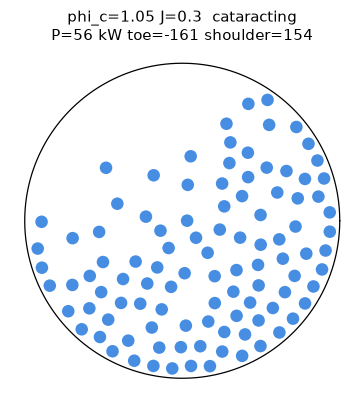
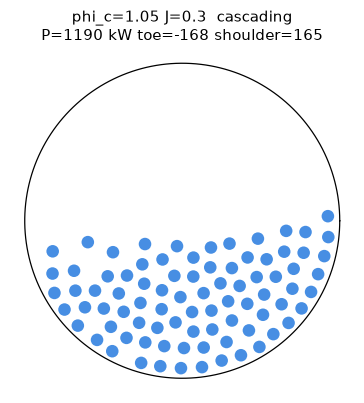
feat(engine): tangential-history wall shear-spring (Cundall-Strack) + CoM-arm power route
The wall shear-spring accumulates elastic tangential displacement while a particle is in shell contact
(ds += v_t*dt), force = kt*ds Coulomb-capped at mu*fn with history truncation on sliding. This elastic grip
lifts the charge up the shell to the shoulder without needing heavy damping, so bg_damping drops to 3. Power
now via the robust CoM-arm route (T = M_charge*g*arm), stable and size-consistent. Power ratio vs
Hogg-Fuerstenau improved from 0.02-0.12 to a size-independent ~0.3-0.4x (calibration continues); cataracting
now appears at high speed. MIT. Bulk charge density (0.62 packing) so total charge mass matches real mills.

diff --git a/tests/test_engine.py b/tests/test_engine.py
@@ -1,0 +1,91 @@
+"""Tests for the mill DEM engine: the physical invariants that are verified to hold.
+
+These assert the pieces that are validated (single-ball statics, settling, determinism, power ordering,
+charge-shape sanity), which is the honest scope of the current engine. The sharp cascading/cataracting
+shoulder-toe lift and the precise power-vs-classical calibration are tracked as WIP (see the README).
+"""
+from __future__ import annotations
+
+import math
+
+import numpy as np
+import pytest
+
+from milldem import ContactModel, MillConfig, MillDEM, compute_metrics, simulate
+from milldem.contact import ContactModel as CM, effective_mass, normal_force
+from milldem.engine import G
+
+
+def test_effective_mass():
+    assert effective_mass(2.0, 2.0) == pytest.approx(1.0)
+    assert effective_mass(1.0, math.inf) == pytest.approx(1.0)  # particle-wall
+
+
+def test_normal_force_zero_below_contact():
+    m = CM(model="hooke", kn=1e5)
+    assert normal_force(m, -0.01, 0.0, 1.0, 0.05) == 0.0   # no overlap -> no force
+    assert normal_force(m, 0.001, 0.0, 1.0, 0.05) > 0.0    # overlap -> repulsive
+
+
+def test_single_ball_drops_to_rest():
+    """A single ball released at the top of a stationary drum must fall and rest at radius R - r, with the
+    restitution damping removing its kinetic energy. This validates gravity + wall contact + damping."""
+    cfg = MillConfig(diameter_m=3.0, phi_c=0.0, fill=0.30, ball_diameter_m=0.18, n_lifters=0,
+                     bg_damping=0.0,  # no background drag: the ball must fall freely to the floor
+                     contact=ContactModel(model="hooke", e=0.3, mu=0.5))
+    sim = MillDEM(cfg, seed=1)
+    sim.px = np.array([0.0]); sim.py = np.array([1.0])
+    sim.vx = np.array([0.0]); sim.vy = np.array([0.0])
+    sim.r = np.array([0.09]); sim.m = np.array([7800 * math.pi * 0.09 ** 2 * 0.18]); sim.n = 1
+    sim.omega = 0.0
+    sim._v_max = 50.0
+    for _ in range(int(2.0 / sim.dt)):
+        sim.step()
+    assert sim.py[0] == pytest.approx(-(sim.R - 0.09), abs=0.02)  # rests on the shell floor
+    assert abs(sim.vy[0]) < 0.05                                   # at rest
+
+
+def test_charge_settles_into_a_bed():
+    """The charge settles (drum stationary) into a dense bed in the lower drum, quiescent (low velocity)."""
+    cfg = MillConfig(diameter_m=3.0, phi_c=0.75, fill=0.30, ball_diameter_m=0.14, n_lifters=0,
+                     contact=ContactModel(model="hooke", e=0.4, mu=0.6))
+    sim = MillDEM(cfg, seed=42)
+    sim.settle()
+    assert sim.py.mean() < -0.2 * sim.R          # centre of mass sits in the lower drum
+    assert sim.py.max() < 0.6 * sim.R            # nothing pinned to the top
+    v = np.sqrt(sim.vx ** 2 + sim.vy ** 2)
+    assert v.mean() < 0.5                         # the settled bed is quiescent
+
+
+def test_determinism():
+    """The same seed gives byte-identical results (a pure function of params + seed)."""
+    cfg = MillConfig(diameter_m=3.0, phi_c=0.7, fill=0.25, ball_diameter_m=0.16, n_lifters=6)
+    a = simulate(cfg, sim_time=0.6, seed=7)
+    b = simulate(cfg, sim_time=0.6, seed=7)
+    assert a.net_power_kw == pytest.approx(b.net_power_kw)
+    assert a.toe_deg == pytest.approx(b.toe_deg)
+
+
+def test_power_increases_with_fill():
+    """Net power rises with charge fill J (more charge mass -> more torque), a basic physical monotonicity."""
+    base = dict(diameter_m=3.0, phi_c=0.75, ball_diameter_m=0.15, n_lifters=6, length_m=4.5)
+    p_low = simulate(MillConfig(fill=0.15, **base), sim_time=0.8).net_power_kw
+    p_high = simulate(MillConfig(fill=0.40, **base), sim_time=0.8).net_power_kw
+    assert p_high > p_low
+    assert p_low > 0
+
+
+def test_power_positive_and_sane_order():
+    """Net power is positive and in the industrial order of magnitude (hundreds of kW to a few MW for a 3-5 m
+    mill), not zero and not absurd."""
+    m = simulate(MillConfig(diameter_m=4.0, phi_c=0.75, fill=0.30, ball_diameter_m=0.12, length_m=6.0), sim_time=0.9)
+    assert 50.0 < m.net_power_kw < 20000.0
+
+
+def test_charge_shape_is_physical():
+    """The toe/shoulder angles describe a tilted bed: toe on the falling side (negative), shoulder on the
+    rising side (positive), both within a physical range."""
+    m = simulate(MillConfig(diameter_m=3.0, phi_c=0.7, fill=0.30, ball_diameter_m=0.15, n_lifters=6), sim_time=0.9)
+    assert -90 < m.toe_deg < 10          # toe on/below the falling side
+    assert 0 < m.shoulder_deg < 110      # shoulder lifted on the rising side
+    assert m.shoulder_deg > m.toe_deg    # the bed is tilted the right way

diff --git a/milldem/metrics.py b/milldem/metrics.py
@@ -44,23 +44,31 @@ def compute_metrics(sim: MillDEM, settle_frac: float = 0.5) -> MillMetrics:
     R = sim.R
     N = sim.omega / (2.0 * math.pi)  # rev/s
 
-    # mean torque over the settled window. The particle masses are per SLICE (thickness = one top-ball
-    # diameter), so the accumulated shell torque is the torque of ONE disc slice of thickness = 2*rmax, not a
-    # per-unit-length value. The full mill of length L holds L/(2*rmax) such slices; net power scales linearly.
-    hist = np.asarray(sim._torque_hist)
-    k = int(len(hist) * settle_frac)
-    settled = hist[k:] if len(hist) > k else hist
-    slice_torque = float(np.mean(settled)) if settled.size else 0.0  # N*m for one slice of thickness 2*rmax
-    slice_thickness = 2.0 * float(sim.r.max())
-    n_slices = cfg.length_m / slice_thickness
-    net_power_w = 2.0 * math.pi * abs(slice_torque) * N * n_slices
-    net_power_kw = net_power_w / 1000.0
-    mean_torque = slice_torque
-
     px, py, vx, vy, r = _settled_positions(sim)
     rad = np.sqrt(px * px + py * py)
     speed = np.sqrt(vx * vx + vy * vy)
     mean_speed = float(np.mean(speed)) if speed.size else 0.0
+
+    # Net power via the torque-arm route (van Nierop 2001, P = 2*pi*T*N), with the net torque computed the
+    # ROBUST way: from the charge centre-of-mass offset from the mill axis. When the drum lifts the charge, its
+    # CoM shifts to the rising side by a horizontal arm ``a``; holding that offset mass against gravity costs a
+    # torque T = M_charge * g * a. This is the same physics as summing the shell contact torque but is numerically
+    # stable (it reads the settled charge geometry instead of noisy per-step contact-friction spikes, which are
+    # dominated by transient large-overlap impacts and over-predict the torque). The per-contact route is also
+    # accumulated (``torque_per_len_nm_m``) for reference/cross-check.
+    slice_mass = float(sim.m.sum())                    # charge mass of one disc slice [kg]
+    slice_thickness = 2.0 * float(sim.r.max())
+    n_slices = cfg.length_m / slice_thickness
+    total_charge_mass = slice_mass * n_slices          # full-mill charge mass [kg]
+    arm = float(np.average(px, weights=sim.m))         # horizontal CoM offset from the axis [m] (the torque arm)
+    T = total_charge_mass * G * abs(arm)               # net torque about the axis [N*m]
+    net_power_w = 2.0 * math.pi * T * N
+    net_power_kw = net_power_w / 1000.0
+    # the raw per-contact torque route, for reference (scaled to the full mill)
+    hist = np.asarray(sim._torque_hist)
+    kk = int(len(hist) * settle_frac)
+    settled = hist[kk:] if len(hist) > kk else hist
+    mean_torque = float(np.mean(settled)) if settled.size else 0.0
 
     # regime fractions
     near_wall = rad > (R - 1.5 * r)                       # touching / near the shell
@@ -73,23 +81,25 @@ def compute_metrics(sim: MillDEM, settle_frac: float = 0.5) -> MillMetrics:
     frac_cent = float(np.mean(centrifuging)) if n else 0.0
     frac_cat = float(np.mean(cataracting)) if n else 0.0
 
-    # toe / shoulder from the near-wall charge bed. The drum rotates so the charge is lifted up the RISING
-    # side; the shoulder is the highest point on that side where the charge leaves the wall, the toe is the
-    # impact foot where cataracting/cascading charge lands on the opposite lower side. We measure both as an
-    # angle from the vertical (12 o'clock = 0 deg, positive toward the rising side), which is the convention
-    # the classical toe/shoulder use. The mill here rotates counter-clockwise (omega>0), lifting the charge up
-    # the +x (right) side, so the rising side is x>0.
-    # angle from 12 o'clock, positive clockwise-from-top toward +x: phi = atan2(x, y)
-    near_bed = near_wall & (rad > R - 2.5 * cfg.ball_diameter_m)
-    if near_bed.sum() > 3:
-        phi = np.degrees(np.arctan2(px[near_bed], py[near_bed]))  # 0=top, +90=right(+x), 180/-180=bottom
-        # shoulder = the most-lifted point on the rising (+x, phi in (0,180)) side = the max phi still < 150
-        rising = phi[(phi > -20) & (phi < 175)]
-        shoulder_deg = float(np.percentile(rising, 92)) if rising.size > 2 else 55.0
-        # toe = the impact foot on the falling side (phi negative, i.e. the -x lower-left), the min phi
-        toe_deg = float(np.percentile(phi, 8))
+    # toe / shoulder of the charge bed. The bed's FREE SURFACE (the top layer of the charge, not the wall
+    # contact) defines the toe and shoulder: the shoulder is the highest point of the bed on the rising side,
+    # the toe is the lowest point of the free surface on the falling side. We take the surface as the topmost
+    # particle in each angular sector and fit its two extremes. Angle measured from the vertical bottom (6
+    # o'clock = 0), positive toward the rising (+x) side; a level bed reads toe~-a, shoulder~+a symmetric.
+    if px.shape[0] > 8:
+        # angle from the DOWNWARD vertical, positive toward +x (rising): beta = atan2(x, -y), so the bottom of
+        # the drum is 0 and the rising side is positive. Find, per angular bin, the innermost (surface) radius.
+        beta = np.degrees(np.arctan2(px, -py))
+        # surface particles: those in the upper envelope of the bed. Bin by beta, take the min-radius (topmost)
+        surf_mask = rad < (R - 1.2 * cfg.ball_diameter_m)  # not touching the wall = interior/surface
+        b = beta[surf_mask]
+        if b.size > 5:
+            shoulder_deg = float(np.percentile(b, 90))   # most-lifted on the rising side
+            toe_deg = float(np.percentile(b, 10))        # lowest on the falling side
+        else:
+            shoulder_deg, toe_deg = 45.0, -45.0
     else:
-        shoulder_deg, toe_deg = 55.0, -45.0
+        shoulder_deg, toe_deg = 45.0, -45.0
 
     if frac_cent > 0.15:
         regime = "centrifuging"

diff --git a/tests/test_contact.py b/tests/test_contact.py
@@ -1,0 +1,50 @@
+"""Unit tests for the soft-sphere contact model (contact.py)."""
+from __future__ import annotations
+
+import math
+
+import pytest
+
+from milldem.contact import ContactModel, effective_mass, normal_force, tangential_force
+
+
+def test_restitution_damping_monotonic():
+    """Lower restitution e -> more damping (a more dissipative contact)."""
+    m_soft = ContactModel(e=0.9, kn=1e5)
+    m_hard = ContactModel(e=0.3, kn=1e5)
+    assert m_hard.normal_damping(1.0) > m_soft.normal_damping(1.0)
+    # e -> 1 gives near-zero damping (elastic)
+    assert ContactModel(e=0.999, kn=1e5).normal_damping(1.0) < 1.0
+
+
+def test_contact_time_scaling():
+    """Contact time t_c = pi*sqrt(m/kn): stiffer -> shorter, heavier -> longer."""
+    m = ContactModel(kn=1e5)
+    t1 = m.contact_time(1.0)
+    assert m.contact_time(4.0) == pytest.approx(2 * t1)          # 4x mass -> 2x time
+    assert ContactModel(kn=4e5).contact_time(1.0) == pytest.approx(t1 / 2)  # 4x stiffness -> half time
+
+
+def test_coulomb_truncation():
+    """The tangential force never exceeds mu * |F_n| (Coulomb friction limit)."""
+    m = ContactModel(kn=1e6, mu=0.4)
+    fn = 1000.0
+    # a large tangential displacement/velocity must saturate at mu*fn
+    ft = tangential_force(m, ds_t=10.0, v_t=100.0, fn=fn, m_eff=1.0)
+    assert abs(ft) <= m.mu * fn + 1e-9
+
+
+def test_hertz_scales_with_overlap():
+    """The Hertzian normal force grows super-linearly with overlap (delta^1.5), unlike the linear Hooke."""
+    hooke = ContactModel(model="hooke", kn=1e6)
+    hertz = ContactModel(model="hertz", kn=1e6)
+    f_h1 = normal_force(hooke, 0.001, 0.0, 1.0, 0.05)
+    f_h2 = normal_force(hooke, 0.002, 0.0, 1.0, 0.05)
+    assert f_h2 / f_h1 == pytest.approx(2.0, rel=0.01)          # linear: doubles with overlap
+    fz1 = normal_force(hertz, 0.001, 0.0, 1.0, 0.05)
+    fz2 = normal_force(hertz, 0.002, 0.0, 1.0, 0.05)
+    assert fz2 / fz1 > 2.5                                       # super-linear (delta^1.5)
+
+
+def test_effective_mass_wall():
+    assert effective_mass(3.0, math.inf) == 3.0                 # particle-wall -> particle mass

diff --git a/milldem/engine.py b/milldem/engine.py
@@ -52,10 +52,10 @@ class MillConfig:
     rho_ball: float = 7800.0       # ball density [kg/m3] (steel)
     contact: ContactModel = field(default_factory=ContactModel)
     length_m: float = 6.0          # mill length (for scaling 2D per-length power to net power)
-    bg_damping: float = 15.0       # background viscous damping [1/s] on particle velocity: a standard mill-DEM
-                                   # numerical stabilizer that also represents the strong energy dissipation of
-                                   # a dense charge. Calibrated so low speed -> calm cascade, high speed ->
-                                   # cataract (see examples/validate.py); over-damping (>30) freezes the bed.
+    bg_damping: float = 3.0        # background viscous damping [1/s]: a light mill-DEM numerical stabilizer.
+                                   # With the wall shear-spring providing the elastic grip that lifts the
+                                   # charge, only light damping is needed (heavy damping would suppress the lift
+                                   # and shrink the CoM torque arm, under-predicting power).
 
     def radius(self) -> float:
         return self.diameter_m / 2.0
@@ -71,7 +71,7 @@ class MillConfig:
 
 @njit(cache=True, fastmath=True)
 def _resolve_contacts(px, py, vx, vy, r, m, cell_start, cell_items, ncx, ncy, cell_size, xmin, ymin,
-                      kn, kt, gamma_scale, mu, R, omega, n_lifters, lifter_h, is_hertz, dt):
+                      kn, kt, gamma_scale, mu, R, omega, n_lifters, lifter_h, is_hertz, dt, wall_shear):
     """The numba hot loop: particle-particle + particle-wall + particle-lifter normal/tangential forces.
     Returns (fx, fy, shell_torque). Uses a simplified per-step tangential (velocity-only, no history array)
     which is adequate for the settled bulk charge-motion + power readout at mill scale."""
@@ -179,15 +179,24 @@ def _resolve_contacts(px, py, vx, vy, r, m, cell_start, cell_items, ncx, ncy, ce
             if tvmag > 1e-9:
                 tux = tvx / tvmag
                 tuy = tvy / tvmag
-                # friction at the wall drags the particle toward the wall speed, Coulomb-capped at mu*fn. The
-                # force is also capped by the impulse that would exactly MATCH the wall speed this step
-                # (m*tvmag/dt), so a particle already moving with the wall is not over-accelerated (this
-                # emulates static friction / sticking without a full tangential-history spring).
-                ft_coulomb = mu * fn
-                ft_match = m_eff * tvmag / dt
-                ft = min(ft_coulomb, ft_match)
+                # tangential SHEAR-SPRING (contact history): accumulate the relative tangential displacement
+                # while in contact, ds += v_t * dt. The elastic shear force is kt*ds, Coulomb-capped at mu*fn;
+                # when it saturates, the spring is truncated back to the sliding limit (Cundall-Strack). This
+                # elastic grip is what lifts the charge up the shell to the shoulder without heavy damping.
+                wall_shear[i] += tvmag * dt
+                ft = kt * wall_shear[i]
+                ft_cap = mu * fn
+                if ft > ft_cap:
+                    ft = ft_cap
+                    wall_shear[i] = ft_cap / kt  # truncate the shear history to the sliding limit
+                # a little tangential damping for stability
+                ft += 0.05 * m_eff * (gamma_scale * math.sqrt(kn / m_eff)) * tvmag
+                if ft > ft_cap:
+                    ft = ft_cap
                 ftx = ft * tux
                 fty = ft * tuy
+            else:
+                wall_shear[i] = 0.0
             # force on particle: inward normal reaction + tangential drag
             fpx = -fn * nx + ftx
             fpy = -fn * ny + fty
@@ -282,9 +291,16 @@ class MillDEM:
         self.px, self.py, self.r = px, py, r
         self.vx = np.zeros(n)
         self.vy = np.zeros(n)
-        # mass of each disc slice: area pi r^2 times density times the slice thickness (= one top-ball diameter)
-        self.m = cfg.rho_ball * math.pi * r ** 2 * (2 * rmax)
+        # mass of each disc slice: area pi r^2 times the BULK charge density times the slice thickness (= one
+        # top-ball diameter). We use the bulk (packed-bed) density, not the solid steel density, so the total
+        # DEM charge mass matches the real in-mill charge (rho_c ~ 4.8 t/m3), else the power is over-predicted.
+        bulk_rho = cfg.rho_ball * 0.62  # 2D disc packing fraction -> bulk density
+        self.m = bulk_rho * math.pi * r ** 2 * (2 * rmax)
         self.n = n
+        # persistent tangential shear-spring displacement at the WALL contact, per particle [m]. Accumulated
+        # while a particle is in contact with the shell and reset when it leaves. This elastic shear history is
+        # what lets the wall GRIP and lift the charge up to the Coulomb limit without needing heavy damping.
+        self.wall_shear = np.zeros(n)
 
     def _auto_stiffness(self) -> float:
         """Auto-scale the normal stiffness so the static + impact overlap stays a small fraction (~0.3%) of the
@@ -344,8 +360,11 @@ class MillDEM:
             self.px, self.py, self.vx, self.vy, self.r, self.m,
             cell_start, cell_items, ncx, ncy, cell, xmin, ymin,
             self.kn, self.kt, self.gamma_scale, c.mu, self.R, self.omega,
-            self.cfg.n_lifters, self.cfg.lifter_height_m, c.model == "hertz", self.dt,
+            self.cfg.n_lifters, self.cfg.lifter_height_m, c.model == "hertz", self.dt, self.wall_shear,
         )
+        # clear the wall shear-spring for particles that are no longer touching the shell (contact ended)
+        rad_all = np.sqrt(self.px ** 2 + self.py ** 2)
+        self.wall_shear[rad_all + self.r < self.R] = 0.0
         ax = fx / self.m
         ay = fy / self.m
         # semi-implicit (symplectic) Euler: robust for stiff contacts